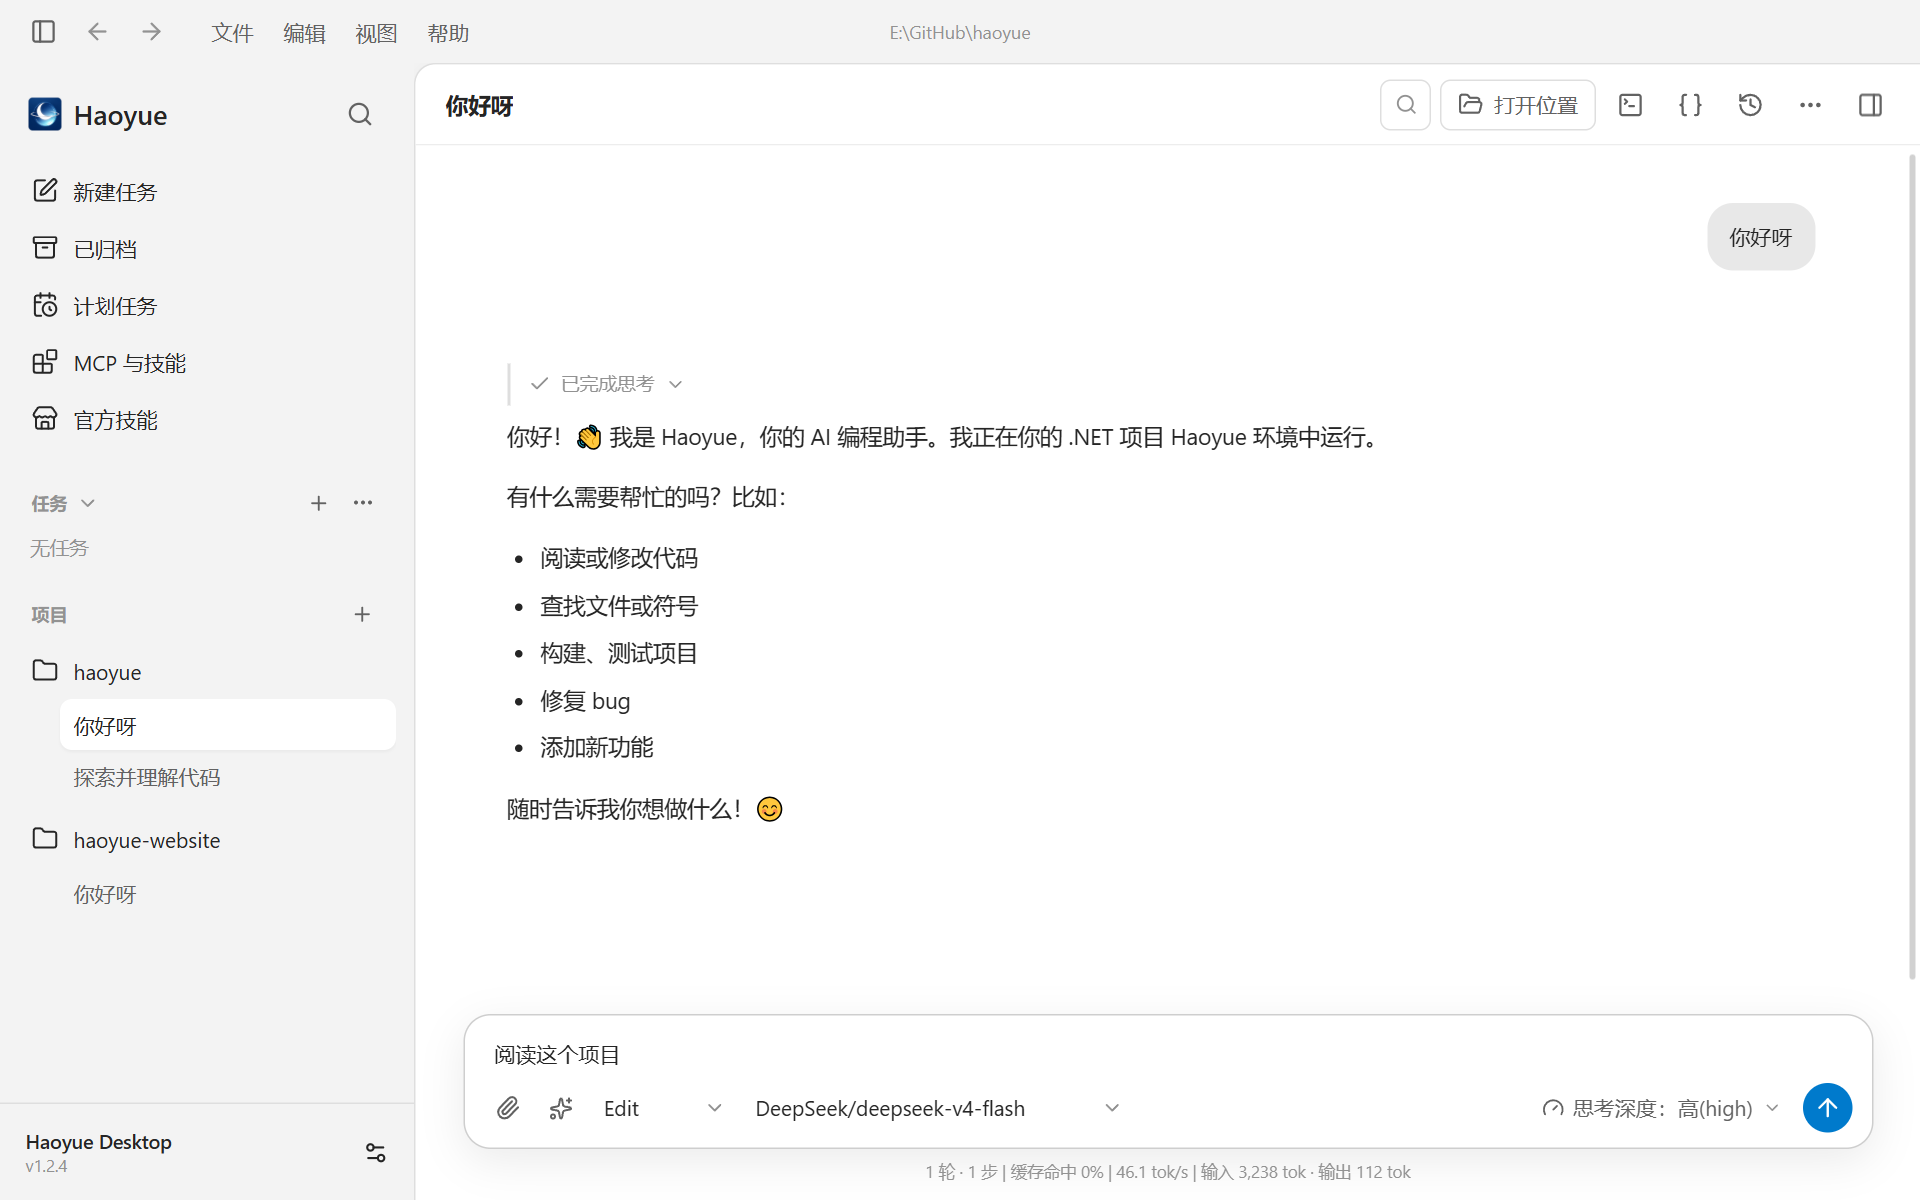
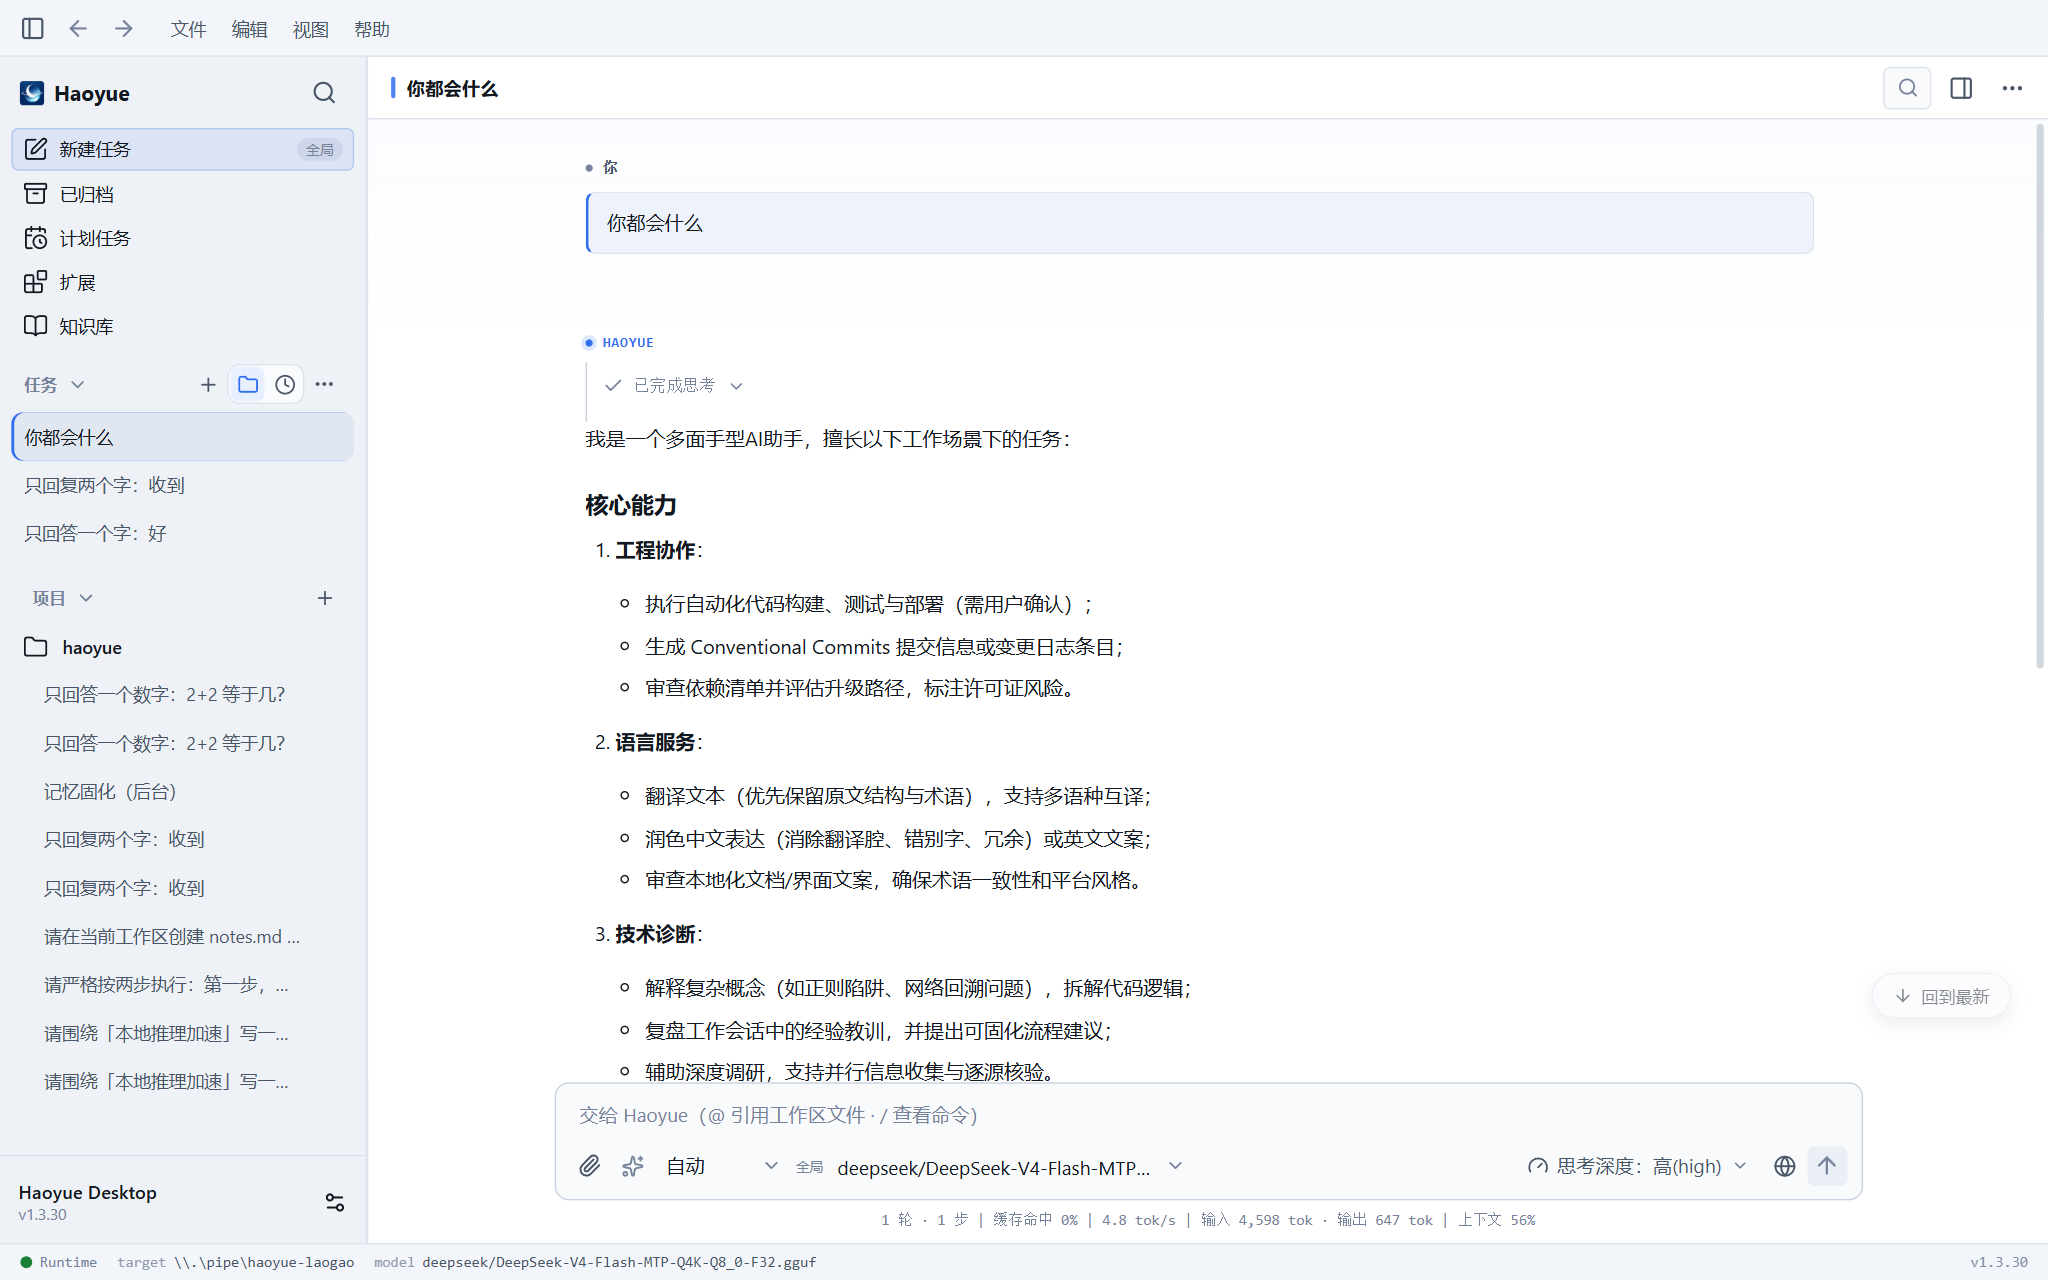
docs(website): 桌面端文档改用新版 IDE 界面截图与说明
- 四张截图为 2048×1280 实拍（1440×900 CSS @1.42222），替换旧版界面
- 对话与项目、模型与提供商、MCP、诊断与用量四节按实际 UI 校正：MCP 入口在「设置 → MCP」，诊断页指标为调用/Token/缓存命中/延迟（不含成本）
- 同步中文与英文页面及首页展示组件的 alt/副标题

diff --git a/haoyue_website/.vitepress/theme/components/DesktopShowcase.vue b/haoyue_website/.vitepress/theme/components/DesktopShowcase.vue
@@ -5,8 +5,8 @@
       <h2>{{ isEn ? 'The workspace where your Agent gets things done' : 'Desktop 是 Agent 的工作台' }}</h2>
       <p>
         {{ isEn
-          ? 'Start a task, connect the context it needs, and follow every action from one focused interface.'
-          : '发起任务、连接所需上下文，并在一个专注的界面中掌握 Agent 的每一步。'
+          ? 'Start a task in an IDE-style workbench, connect project context, and follow every step from the persistent status bar.'
+          : '在 IDE 式工作台中发起任务、连接项目上下文，并通过常驻状态栏掌握 Agent 的每一步。'
         }}
       </p>
     </div>
@@ -17,7 +17,7 @@
         <strong>Haoyue</strong>
       </div>
       <a href="/screenshots/desktop/chat-and-projects.png" :aria-label="isEn ? 'Open the Desktop screenshot' : '打开 Desktop 截图'">
-        <img src="/screenshots/desktop/chat-and-projects.png" :alt="isEn ? 'Haoyue Desktop Agent workspace' : 'Haoyue Desktop Agent 工作台'" loading="lazy" />
+        <img src="/screenshots/desktop/chat-and-projects.png" :alt="isEn ? 'Haoyue Desktop IDE-style workbench with task and project sidebar, agent transcript, and status bar' : 'Haoyue Desktop IDE 式工作台：任务与项目侧栏、Agent 转录与底部状态栏'" loading="lazy" />
       </a>
     </div>
 

diff --git a/haoyue_website/en/doc/desktop.md b/haoyue_website/en/doc/desktop.md
@@ -2,7 +2,7 @@
 
 Haoyue Desktop is an Electron and Vue client for the same .NET Runtime used by the CLI. It connects through the local Daemon IPC protocol and provides a graphical workspace for projects, tasks, models, tools, and runtime health. Desktop and CLI share Provider, Profile, MCP, Skill, and session data.
 
-![Haoyue Desktop AI chat and project management](/screenshots/desktop/chat-and-projects.png)
+![Haoyue Desktop's IDE-style workbench: task and project sidebar, agent transcript, and bottom status bar](/screenshots/desktop/chat-and-projects.png)
 
 ## Install and launch
 
@@ -124,7 +124,7 @@ Open “Settings → Models & Providers” to:
 - store and manage the API key in the configuration;
 - manage models, Base URL, proxy, timeout, and priority;
 - configure advanced provider fields: organization and project, concurrency threads (local inference), KV prefix reuse (local inference), custom request headers (secret header values are never echoed — leave blank to keep), and reasoning-effort maps;
-- set a fallback model and input / output pricing per model (used to price usage reports);
+- set a fallback model and input / output pricing per model (the Runtime accumulates cost from usage records);
 - pick the vision sub-agent model (automatic or a specific vision-capable model);
 - **Routing & failover**: failover toggle, local→cloud fallback (red-boxed cost warning when enabled), fallback-chain ordering and add/remove, load-balancing mode, retries and circuit breaking (including the chain budget);
 - create Profiles and switch the active model or routing strategy;
@@ -154,7 +154,7 @@ The settings workbench also provides:
 - **Evolution**: defect signals at a glance, manual or scheduled reflection, adopt/reject for skill drafts — see the [Evolution Engine](/en/doc/evolution);
 - **Knowledge Center**: browse and revise what the agent saves as notebooks → sources → entries — attribution badges, cross-notebook search, tag filtering, Markdown export and the synonym editor — see the [Knowledge Center](/en/doc/knowledge);
 - **LAN connection**: switch between the local Runtime and a Runtime on another computer on the same network, or share this machine's Runtime with the LAN; the handshake uses a one-time nonce plus HMAC-SHA256, so the token never travels the wire (see “Runtime connection behavior” below);
-- **Diagnostics & Usage**: inspect workspace, configuration, and Provider health plus calls, tokens, latency, and cost over a 7/14/30-day window, with the Daemon log and diagnostics bundle entry;
+- **Diagnostics & Usage**: inspect workspace, configuration, and Provider health plus calls, tokens, cache hits, and latency over a 7/14/30-day window, with the Daemon log and diagnostics bundle entry;
 - **Advanced**: extra readable-directory allowlist, Computer Use and network-operation switches, a JSON editor for the global configuration (redacted on read, submitting only changed fields), and a factory-reset danger zone at the bottom.
 
 The settings page has a search box that jumps to a switch by section name or keyword. While the daemon is disconnected the whole page turns read-only with an explanation (an empty list then means “could not read”, not “nothing configured”), and notices dismiss themselves after four seconds.

diff --git a/haoyue_website/en/doc/mcp.md b/haoyue_website/en/doc/mcp.md
@@ -14,7 +14,7 @@ Haoyue acts as an MCP Client, connects to external servers, and registers discov
 
 ## Configure MCP in Desktop
 
-Open the sidebar “Extensions” hub, Connectors page, to add a global or workspace server, pick a connection method (stdio / HTTP SSE / Streamable HTTP), fill in the command or URL, arguments, environment, and enabled state, then select “Save and reload.”
+Open “Settings → MCP” to add a global or workspace server, pick a connection method (stdio / HTTP SSE / Streamable HTTP), fill in the command or URL, arguments, environment, and enabled state, then select “Save and reload.”
 
 ![Desktop MCP Server configuration](/screenshots/desktop/mcp-servers.png)
 

diff --git a/haoyue_website/en/doc/index.md b/haoyue_website/en/doc/index.md
@@ -2,7 +2,7 @@
 
 Haoyue is a local-first, extensible general-purpose AI Agent Runtime built on **.NET 10** with a Runtime First, event-driven architecture. It can reason toward a goal and use local tools, the web, MCP, and Skills to finish real work. Windows Desktop and CLI share the same Runtime, configuration, tools, and session data.
 
-![Haoyue Desktop main window](/screenshots/desktop/chat-and-projects.png)
+![Haoyue Desktop's IDE-style workbench](/screenshots/desktop/chat-and-projects.png)
 
 ## What Haoyue provides today
 

diff --git a/haoyue_website/doc/index.md b/haoyue_website/doc/index.md
@@ -2,7 +2,7 @@
 
 Haoyue 是基于 **.NET 10**、本地优先且可扩展的通用 AI Agent Runtime，采用 Runtime First 与事件驱动架构。它能围绕目标持续思考，使用本地工具、网页、MCP 与 Skills 完成真实任务。你可以通过 Windows Desktop 或 CLI 使用同一套 Runtime、配置、工具与会话数据。
 
-![Haoyue Desktop 主界面](/screenshots/desktop/chat-and-projects.png)
+![Haoyue Desktop 的 IDE 式工作台](/screenshots/desktop/chat-and-projects.png)
 
 ## 现在可以做什么
 
